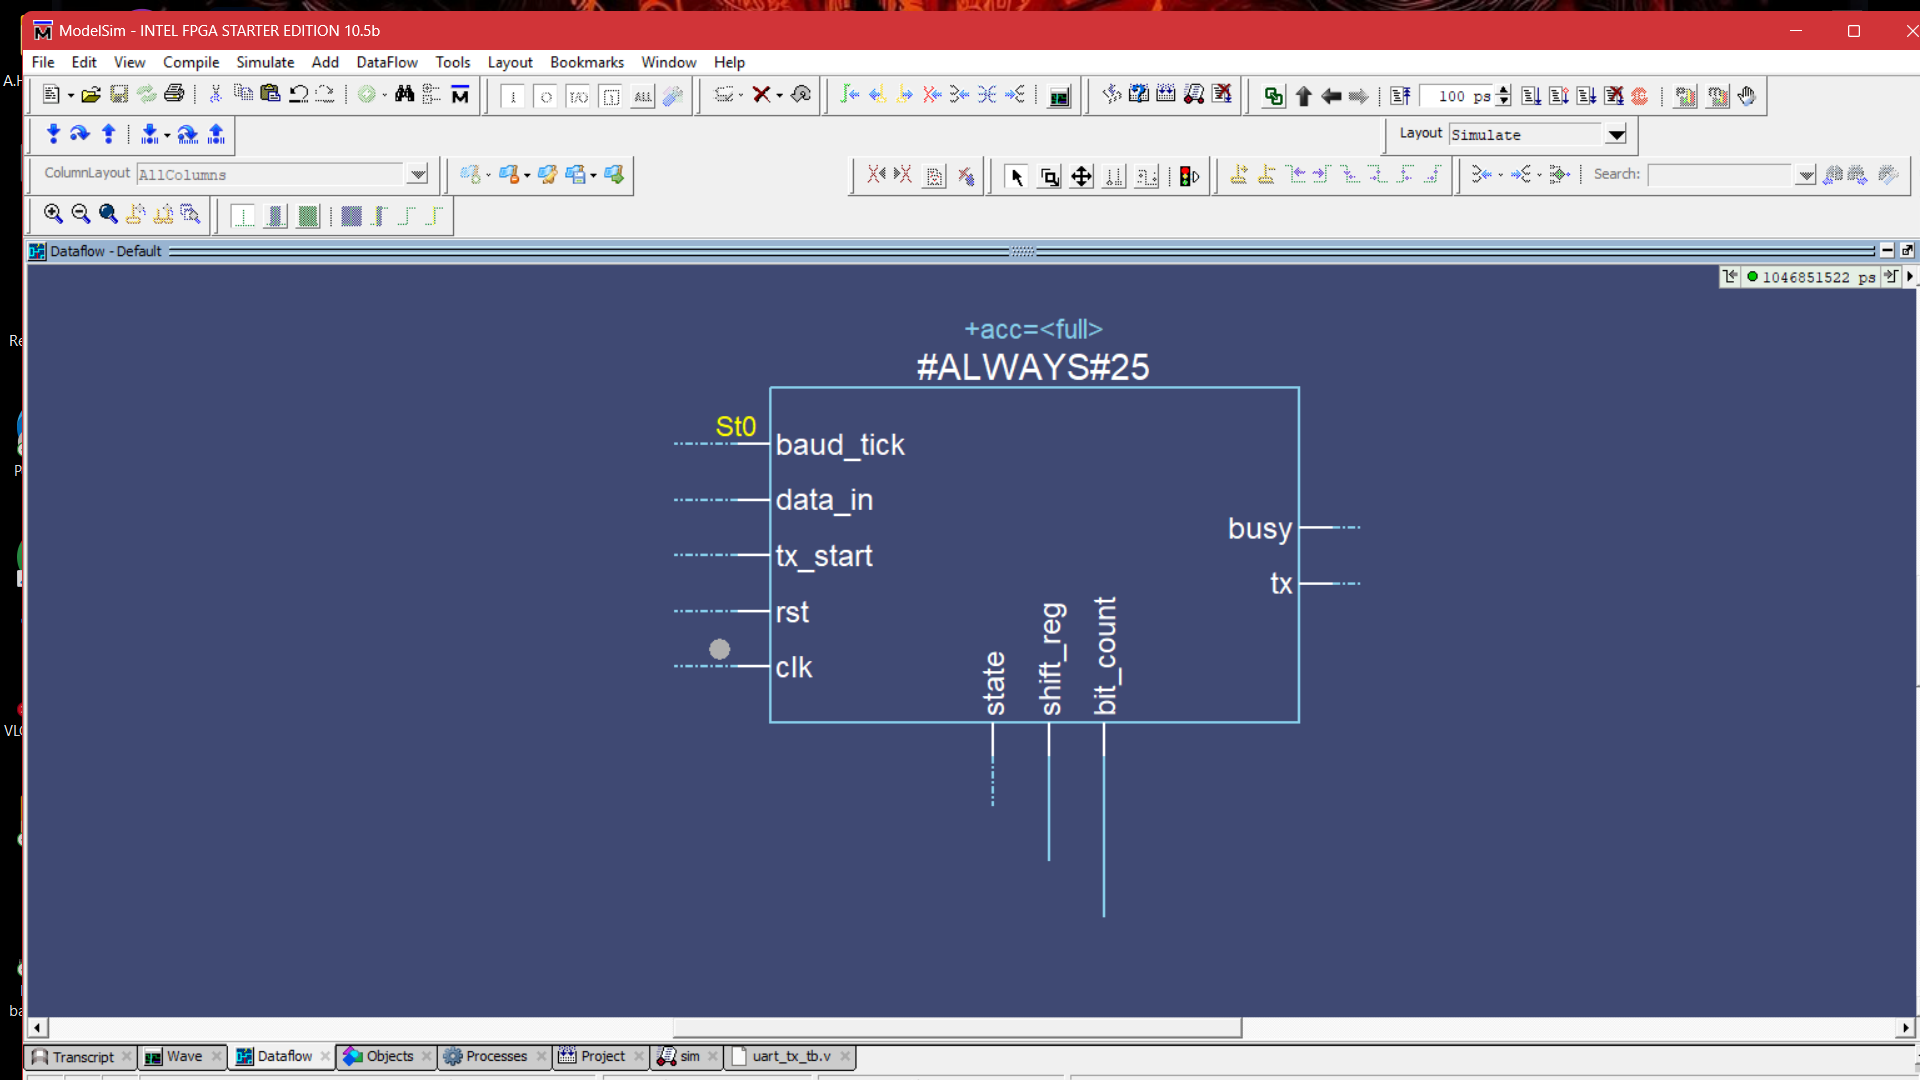
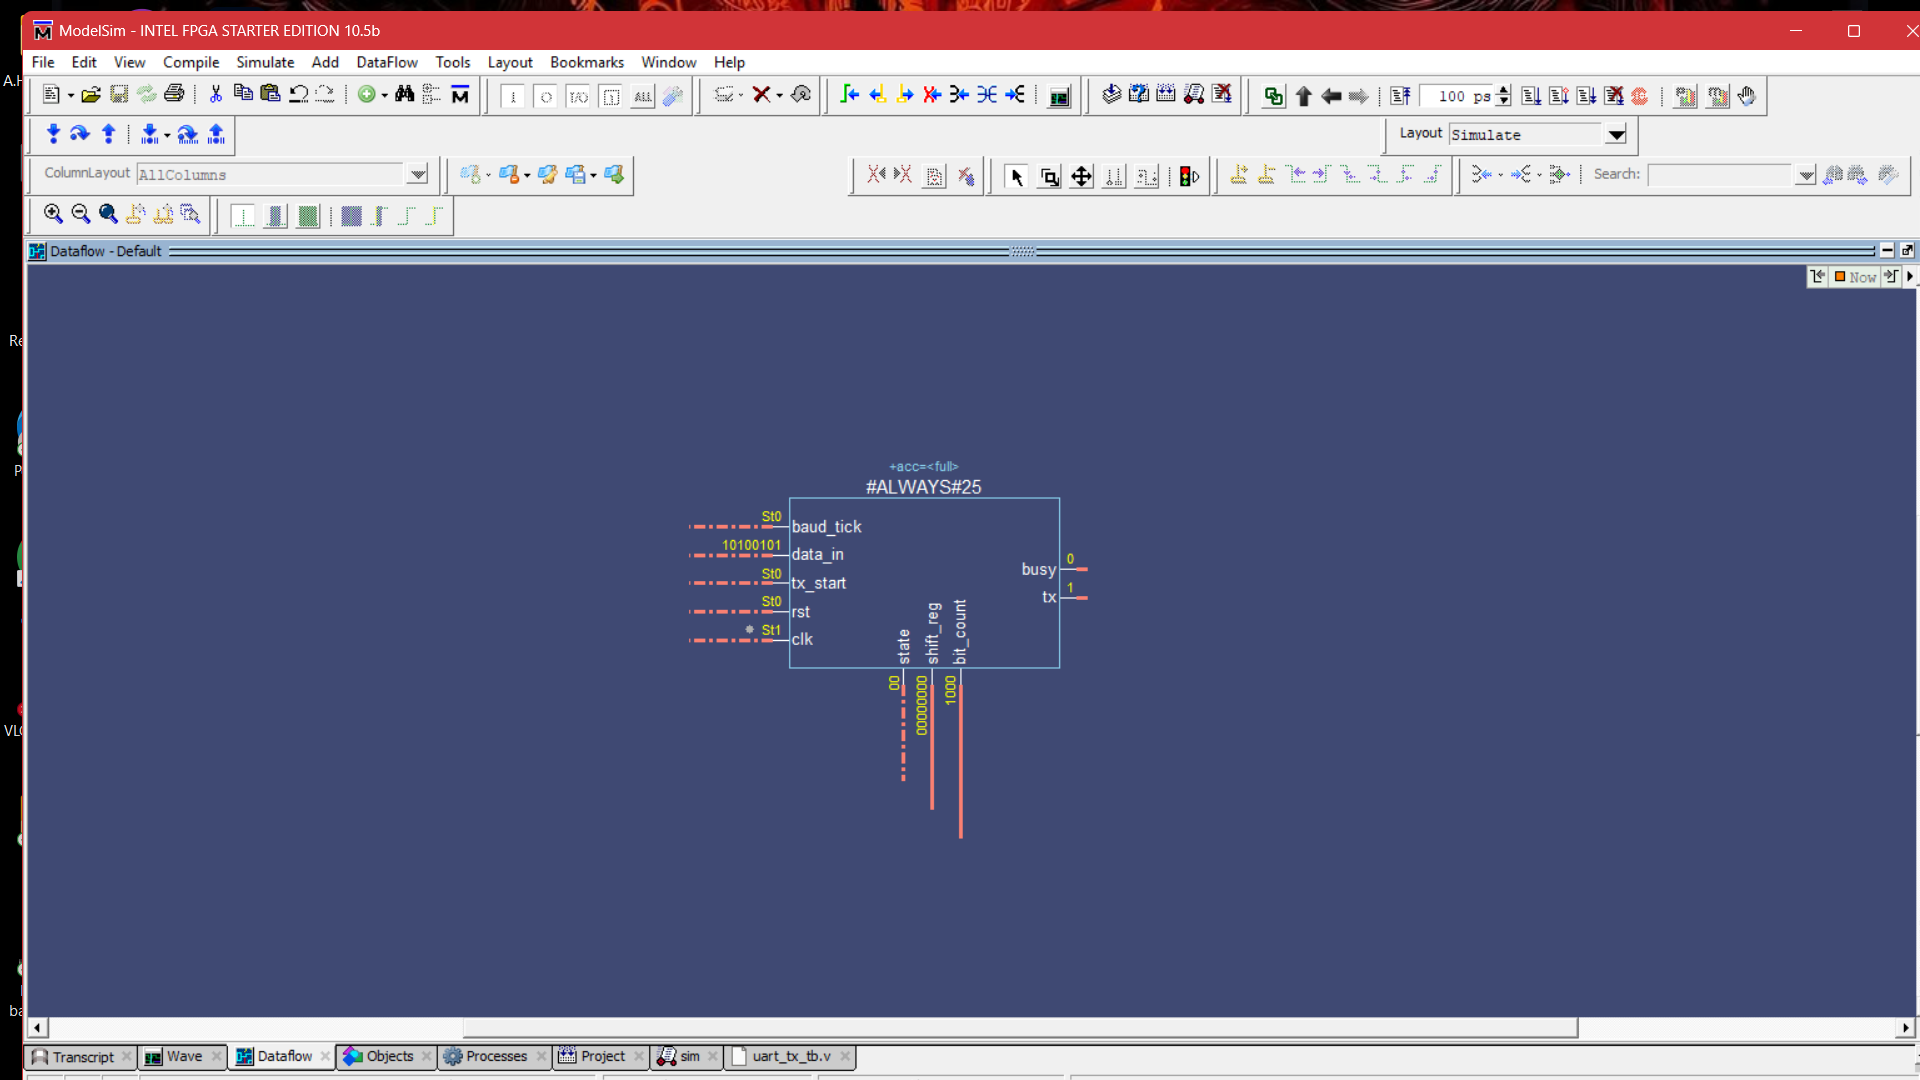
Fix README directory layout and asset paths
- Converted the raw text project structure layout into an explicit code fence block to prevent horizontal rendering bugs on GitHub.
- Updated relative file paths for simulation waveforms and RTL dataflow diagrams to ensure proper markdown image rendering.

diff --git a/README.md b/README.md
@@ -28,29 +28,26 @@ The objective of this project is to design, implement, and verify a complete UAR
 
 ---
 
-📁 Project Structure
+📁 Project Structure
 
-UART-Controller-Verilog/
-│
-├── rtl/
-│   ├── baud_gen.v
-│   ├── uart_tx.v
-│   ├── uart_rx.v
-│   └── uart_top.v
-│
-├── tb/
-│   ├── baud_gen_tb.v
-│   ├── uart_tx_tb.v
-│   ├── uart_rx_tb.v
-│   └── uart_top_tb.v
-│
-├── docs/
-│   ├── uart_top_waveform.png
-│   ├── uart_tx_dataflow.png
-│   └── uart_rx_dataflow.png
-│
-└── README.md
-
+  📂 UART-Controller-Verilog/
+    📂 rtl/ (Design Source Files)
+       📄 baud_gen.v
+       📄 uart_tx.v. 
+       📄 uart_rx.v
+       📄 uart_top.v
+    📂 tb/ (Testbench Verification Files)
+       📄 baud_gen_tb.v
+       📄 uart_tx_tb.v 
+       📄 uart_rx_tb.v
+       📄 uart_top_tb.v
+    📂 waveform/ (Simulation Waveform Logs)
+       🖼️ uart_top_waveform.png
+    📂 docs/ (Design Documentation and Diagrams)
+       🖼️ uart_tx_dataflow.png
+       🖼️ uart_rx_dataflow.png
+    📄 README.md
+
 ---
 
 ⚙️ Module Description